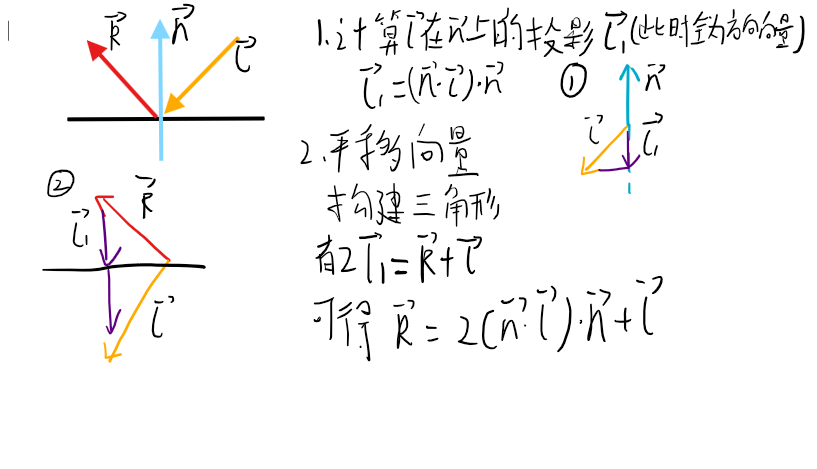
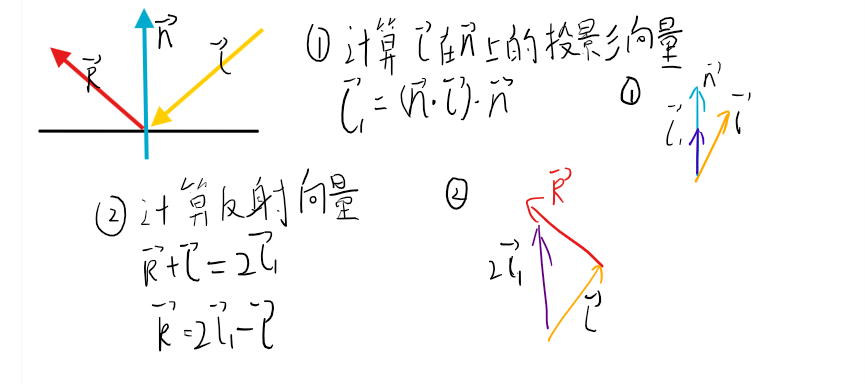
更新高光模型文章

diff --git a/source/_posts/Shader渲染基础光照模型—高光光照模型.md b/source/_posts/Shader渲染基础光照模型—高光光照模型.md
@@ -23,9 +23,9 @@ Tis:高光指数可以表现未一个材质的光滑度（gloss）。
 
 $$R = 2(N \cdot L)N - L$$
 （其中 $N$ 为表面法线，$L$ 为指向光源的单位向量）
-接下来我将演示如何推导出R（反射向量）
-
+接下来我将演示如何推导出R（反射向量），在Unity中关照方向是从光照点指向光源
 ![](GG1.webp)
+
 **反射向量 $R$ 的计算公式疑点讲解**：
 为什么想到用投影向量？根据镜面反射的定理，反射光向量和光线向量的模长一定，根据公式反推使R向量加上L向量就可以得到一个未知的向量L1，观察形式可知是投影向量。
 ### 高光反射的经验方程理解
@@ -130,8 +130,9 @@ Shader "Unlit/Blinn-Phong_URP"
 {% endcodeblock %}
 ### 半角向量优化（Bilnn-Phone）
 先看公式吧
-$$c_{specular} = (c_{light} \cdot m_{specular}) \cdot \max(0, \hat{n} \cdot \hat{h})^{m_{gloss}}$$其中H的计算公式为
-$$h = \frac{v + l}{|v + l|}$$下面我们来讲解这个公式的由来
+$c_{specular} = (c_{light} \cdot m_{specular}) \cdot \max(0, \hat{n} \cdot \hat{h})^{m_{gloss}}$其中H的计算公式为
+$h = \frac{v + l}{|v + l|}$
+下面我们来讲解这个公式的由来
 先看这个特殊情况光正好可以被看到你就会发现这时候L向量和V向量相加得出的新向量与N向量重合（微面元理论），这时候这个新向量就代表了V和L向量的角平分线所在的线段，所以叫半角向量。
 ![](GG3.webp)
 这样计算的优点是Phong 模型在计算 $V \cdot R$ 时，如果观察角度大于 90 度，点积会迅速变为负数，导致高光在边缘处戛然而止。